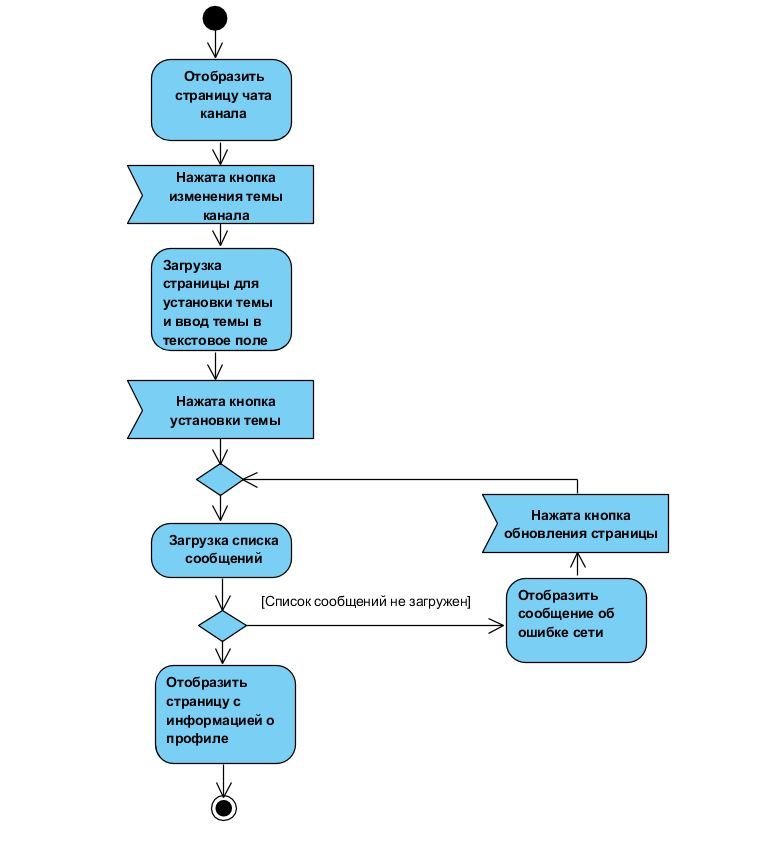
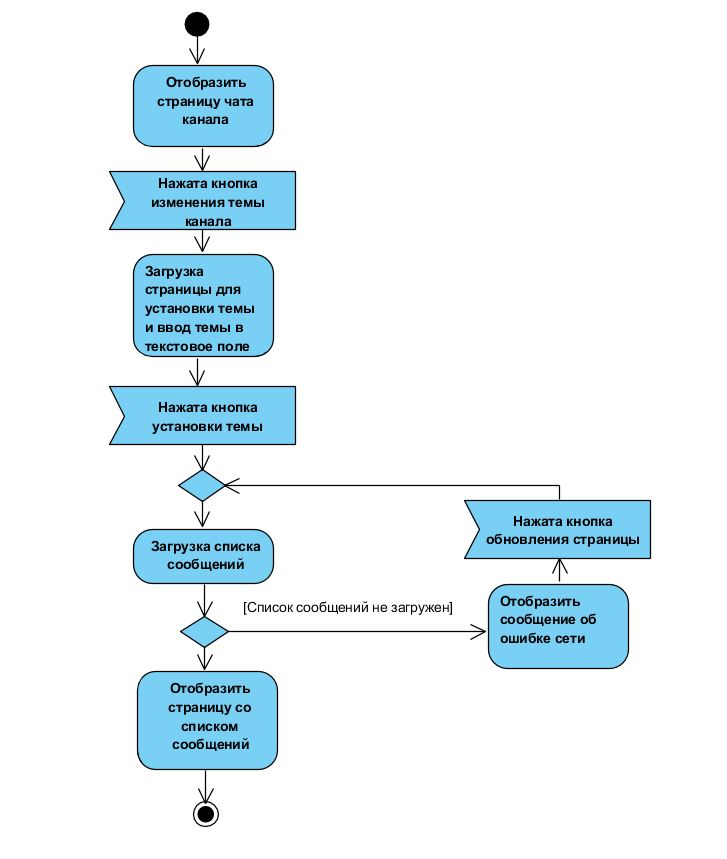
Activity diagrams added

Changed region(s): [[0.1513, 0.0, 0.9078, 0.9697]]

diff --git a/Documents/Diagrams/Activity.md b/Documents/Diagrams/Activity.md
@@ -1,0 +1,29 @@
+# Содержание
+1. [Отправка сообщения](#1)
+2. [Получение информации о профиле](#2)
+3. [Удаление пользователя из канала](#3)
+4. [Изменение темы канала](#4)
+5. [Получение информации о  пользователе рабочего пространства](#5)
+
+### 1. Отправка сообщения<a name="1"></a>
+При загрузке страницы списка личных сообщений или страницы списка каналов необходимо выбрать собеседника из списка. Далее происходит загрузка страницы чата со списком сообщений. Для создания нового сообщения необходимо ввести текст в поле, а затем нажать кнопку "Send". Если же текстовое поле сообщения пустое, то загрузится сообщение об ошибке. Иначе произойдет отправка текста сообщения, а затем принятие результата операции. В случае, если результат не принят, загрузится сообщение об ошибке сети. При удачном выполнении операции произойдёт обновление страницы списка сообщений, который уже будет включать в себя последнее отправленное сообщение.
+
+![Отправка сообщения](https://github.com/kateLap/SlackClient/blob/master/Images/Diagrams/Activity/SendMessage.JPG)
+
+### 2. Получение информации о профиле<a name="2"></a>В боковом меню приложения необходимо нажать кнопку просмотра информации профиля. Далее произойдёт загрузка запрошенной информации. Если данные не получены, то загрузится сообщение об ошибке сети. Для повторной попытки необходимо нажать кнопку обновления страницы. В случае успешной попытки на странице отобразится информация о профиле.
+
+![Получение информации о профиле](https://github.com/kateLap/SlackClient/blob/master/Images/Diagrams/Activity/ProfileInfo.JPG)
+  
+### 3. Удаление пользователя из канала<a name="3"></a>На странице с информацией о пользователе при нажатии кнопки получения списка каналов текущего пользователя произойдёт загрузка необходимого списка. В случае неудачной загрузки отобразится сообщение об ошибке сети. Далее необходимо обновить страницу. При удачной попытке загрузится страница со списком каналов. Нажатие на определённый канал из списка приведёт к удалению пользователя из канала. Если же произойдёт ошибка удаления, то загрузится соответствующее сообщение. В таком случае необходимо обновить страницу.
+
+![Удаление пользователя из канала](https://github.com/kateLap/SlackClient/blob/master/Images/Diagrams/Activity/KickUser.JPG)
+
+### 4. Изменение темы канала<a name="4"></a>
+При нажатии кнопки изменения темы на странице чата канала загрузится страница для установки темы. Необходимо ввести тему в текстовое поле и подтвердить её нажатием кнопки. Произойдет загрузка страницы чата. При успешной загрузке отобразится список сообщений. Тема канала изменена.
+
+![Изменение темы канала](https://github.com/kateLap/SlackClient/blob/master/Images/Diagrams/Activity/SetTopic.JPG)
+
+### 5. Получение информации о  пользователе рабочего пространства<a name="5"></a>
+В боковом меню нажата кнопка получения списка пользователей рабочего пространства. Произойдёт загрузка соответствующей страницы. Необходимо выбрать пользователя из списка, по сле чего загрузится новая страница с информацией о выбранном пользователе. 
+
+![Получение информации о  пользователе рабочего пространства](https://github.com/kateLap/SlackClient/blob/master/Images/Diagrams/Activity/UsersInformation.JPG)
